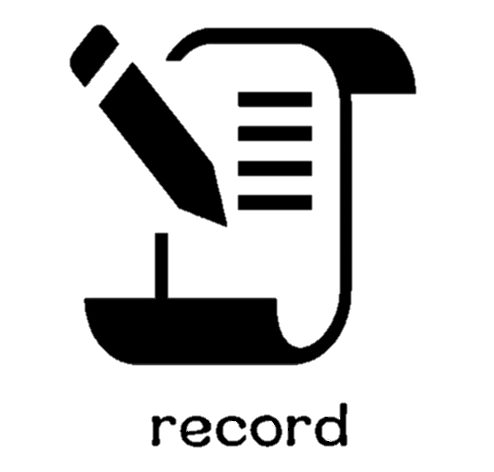
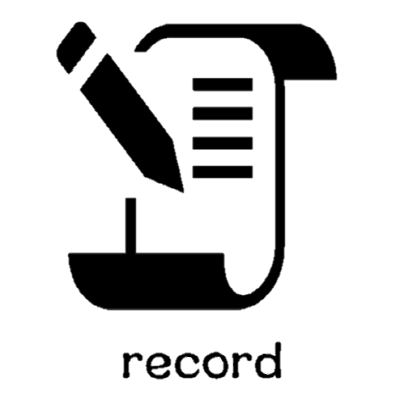
메인화면 이미지 추가

diff --git a/project/main.html b/project/main.html
@@ -3,23 +3,44 @@
 	<head>
 		<meta charset="UTF-8">
 		<title></title>
-		<meta name="viewport" content="initial-scale=1.0, width=device-width">
+		<meta id="viewport" name="viewport" content="width=device-width, height=device-height, initial-scale=1, minimum-scale=1, maximum-scale=1, user-scalable=no" />
 		<link rel="stylesheet" href="jquery.mobile/jquery.mobile-1.4.5.min.css"/>
 		<script src="jquery.mobile/jquery-1.11.1.min.js"></script>
 		<script src="jquery.mobile/jquery.mobile-1.4.5.min.js"></script>
 
 		<style type="text/css">
 			table {
-				margin-top: 10px;
-				margin-bottom: 10px;
 				margin-left: auto;
 				margin-right: auto;
+			}
+
+			img {
+				margin-left: 5%;
+				width: 85%;
+				height: 30%;
+				background-color: white;
+				border-radius: 10px;
+			}
+
+			#mainPage {
+				background-repeat: no-repeat;
+				background-size: cover;
+			}
+
+			body, html {
+				height: 100%;
+				overflow: hidden;
 			}
 
 		</style>
 
 		<script>
 			$(document).ready(function() {
+
+				$("#se").hide();
+				$("#dialog").dialog({
+					autoOpen : false, //자동으로 열리지않게
+				});
 
 				$("#game").on("click", function() {
 					location.href = "game.html";
@@ -28,35 +49,56 @@
 				$("#back").on("click", function() {
 					location.href = "index.html";
 				});
+				$("#setting").on("click", function() {
+					$("#se").toggle(10);
+				});
 			});
 		</script>
 	</head>
 	<body>
-		<div data-role="page" id="mainPage">
+		<div data-role="page" id="mainPage" style="background-image:url(image/two.png)">
 			<div  data-role="header" data-position="fixed">
 				<h1>메인 화면</h1>
 				<a id="back" data-icon="refresh" class="ui-btn-right" >logout</a>
 			</div>
-			<div data-role="content">
+			<div data-role="content" id="content">
 
-			</div>
-			<div data-role="footer" data-position="fixed">
-				<table>
+				<div id="se" hidefocus="true">
+
+					<label for="sc">볼륨</label>
+					<input type="range" name="sc" id="sc" value="50" min="0" max="100"/>
+
+					<br>
+
+					<label for="vi">진동</label>
+					<select name="vi" id="vi" data-role="slider">
+						<option value="on">on</option>
+						<option value="off">off</option>
+					</select>
+
+					<br>
+					<br>
+					<label for="sa">자동저장</label>
+					<select name="sa" id="sa" data-role="slider">
+						<option value="on">on</option>
+						<option value="off">off</option>
+					</select>
+				</div>
+
+				<table >
 					<tr>
-						<td>
-						<button>
-							<a href="game.html"><img id="game" width="120px" height="80px" src="image/game.png"></a>
-						</button>
-						<button>
-							<img id="record" width="120px" height="80px" src="image/record.png">
-						</button>
-						<button>
-							<img id="setting" width="120px" height="80px" src="image/setting.png">
-						</button></td>
+						<td><a href="game.html"><img id="game" src="image/game.png"></a></td>
+					</tr>
+					<tr>
+						<td><a><img id="record" src="image/record.png"></a></td>
+					</tr>
+					<tr>
+						<td><img id="setting" src="image/setting.png"></td>
 					</tr>
 
 				</table>
 			</div>
 		</div>
+
 	</body>
 </html>

diff --git a/project/index.html b/project/index.html
@@ -1,8 +1,8 @@
 <!DOCTYPE html>
 <head>
 	<meta charset="utf-8">
-	<meta name="viewport" content="width=device-width, initial-scale=1, shrink-to-fit=no">
-
+	<meta id="viewport" name="viewport" content="width=device-width, height=device-height, initial-scale=1, minimum-scale=1, maximum-scale=1, user-scalable=no" />
+	<link rel="stylesheet" href="jquery.mobile/jquery.mobile-1.4.5.min.css"/>
 	<link rel="stylesheet" href="http://code.jquery.com/ui/1.10.2/themes/smoothness/jquery-ui.css">
 	<script src="http://code.jquery.com/jquery-1.9.1.min.js"></script>
 	<script src="http://code.jquery.com/ui/1.10.2/jquery-ui.js"></script>
@@ -10,13 +10,15 @@
 
 	<style type="text/css">
 		table {
-			margin-top: 10px;
 			margin-left: auto;
 			margin-right: auto;
 		}
+		
+		label{
+			color: white;
+		}
 
 		.ef {
-			margin-top: 10px;
 			border-radius: 7px;
 			width: 155px;
 			height: 45px;
@@ -24,7 +26,6 @@
 		}
 
 		.efff {
-			margin-top: 10px;
 			border-radius: 7px;
 			width: 120px;
 			height: 45px;
@@ -39,14 +40,26 @@
 		}
 
 		img {
-			margin-top:10px;
+			margin-top: -5px;
 			border-radius: 10px;
 		}
 		
-		.te{
-			font-size:30px;
+		#im{
+			
+			margin-top: 10px;
+		}
+
+		.te {
+			font-size: 30px;
 			width: 230px;
 			height: 40px;
+		}
+		
+		body, html{
+			background-repeat: no-repeat;
+			background-size: cover;
+			height : 100%;
+			overflow: hidden;
 		}
 	</style>
 
@@ -90,13 +103,13 @@
 	</script>
 </head>
 
-<body bgcolor="#F6F6F6">
+<body background="image/bgim.gif">
 
 	<br>
-	<img width="550px" height="140px" style="margin-left: auto; margin-right: auto; display: block;" src="image/login.png">
+	<img width="400px" height="100px" style="margin-left: auto; margin-right: auto; display: block;" src="image/login.png">
 	<br>
 
-	<table>
+	<table style="margin-top: -15px;">
 		<tr>
 			<td><label for="ID" class="te">ID&nbsp;&nbsp;</label></td>
 			<td>
@@ -106,7 +119,7 @@
 		</tr>
 	</table>
 
-	<table>
+	<table style="margin-top: 10px;">
 		<tr>
 			<td><label for="PW" class="te">PW&nbsp;</label></td>
 			<td>
@@ -117,7 +130,7 @@
 
 	</table>
 
-	<table>
+	<table id="im">
 		<tr>
 			<td><img width="75px" height="75px" src="image\kakao.png"/></td>
 			<td><img width="75px" height="75px" src="image\naver.jpg"/></td>
@@ -126,7 +139,7 @@
 		</tr>
 	</table>
 
-	<table>
+	<table id="im">
 		<tr>
 			<td>
 			<input type="button" class="ef" id="login" value="로그인"/>

diff --git a/project/fire.html b/project/fire.html
@@ -2,38 +2,45 @@
 <html>
 	<head>
 		<meta charset="UTF-8">
-		<title></title>
-		<meta name="viewport" content="initial-scale=1.0, width=device-width">
+		<meta id="viewport" name="viewport" content="width=device-width, height=device-height, initial-scale=1, minimum-scale=1, maximum-scale=1, user-scalable=no" />
+		<script src="jquery.mobile/jquery-1.11.1.min.js"></script>
+		<script src="jquery.mobile/jquery.mobile-1.4.5.min.js"></script>
 
 	</head>
-	
+
 	<style>
-		
-		#te{
-			
-			
-			margin-top:2%;
-			margin-left:2%;
+		#te {
+			margin-top: 2%;
+			margin-left: 2%;
 			width: 95%;
-			height: 120px;
+			height: 70%;
 			border-color: white;
 			background-color: black;
 			color: white;
 			border-radius: 10px;
-			font-size: 30px;
-			
+			font-size: 20px;
 		}
-		
-		#im{
-			margin-top: 3%;
-			width: 55%;
-			
+
+		#im {
+			margin-top: 1%;
+			width: 65%;
+			height: 40%;
 		}
+
 	</style>
 
 	<body bgcolor="#000000">
-		<img id="im" style="margin-left: auto; margin-right: auto; display: block;" src="image/fire.jpg">
-		<textarea style="overflow-y: hidden" disabled="true" style="margin-left: auto; margin-right: auto; display: block;" id="te">  안녕하세요 당신은 화재 및 재난, 재해를 예방하고 대응하며 위급한 상황으로 부터 구조 구급활동을 통해 국민의 재산과 신체를 보호하는 것을 주임무로 하는 소방관입니다. &#10;여러분은 지금부터 소방관의 하루를 체험하게 됩니다. 
-		</textarea>
+		<div data-role="page">
+			<div data-role="header" data-position="fixed">
+
+			</div>
+			<div data-role="content" data-position="fixed">
+				<img id="im" style="margin-left: auto; margin-right: auto; display: block;" src="image/fire.jpg">
+				<textarea style="overflow-y: hidden" disabled="true" style="margin-left: auto; margin-right: auto; display: block;" id="te">  안녕하세요 당신은 화재 및 재난, 재해를 예방하고 대응하며 위급한 상황으로 부터 구조 구급활동을 통해 국민의 재산과 신체를 보호하는 것을 주임무로 하는 소방관입니다. &#10;여러분은 지금부터 소방관의 하루를 체험하게 됩니다. 상황에 맞는 선택지를 선택하여 재밌는 체험을 해보시길 바랍니다.</textarea>
+			</div>
+			<div data-role="footer" data-position="fixed">
+
+			</div>
+		</div>
 	</body>
 </html>

diff --git a/project/game.html b/project/game.html
@@ -2,8 +2,7 @@
 <html>
 	<head>
 		<meta charset="UTF-8">
-		<title></title>
-		<meta name="viewport" content="initial-scale=1.0, width=device-width">
+		<meta id="viewport" name="viewport" content="width=device-width, height=device-height, initial-scale=1, minimum-scale=1, maximum-scale=1, user-scalable=no" />
 		<link rel="stylesheet" href="http://code.jquery.com/ui/1.10.2/themes/smoothness/jquery-ui.css">
 		<script src="http://code.jquery.com/jquery-1.9.1.min.js"></script>
 		<script src="http://code.jquery.com/ui/1.10.2/jquery-ui.js"></script>
@@ -12,7 +11,7 @@
 			img {
 				margin-top: 30px;
 				border-radius: 100px;
-				margin-left: 85px;
+				margin-left: 25px;
 			}
 
 			table {
@@ -22,18 +21,19 @@
 			}
 
 			h1 {
-				margin-left: 85px;
+				text-align: center;
+				width: 100%;
 				color: #FFFFFF
 			}
 
 			button {
 
+				margin-left: 165px;
 				font-size: 25px;
 				font-weight: bold;
 				border-radius: 10px;
 				background-color: #FFFFFF;
 				margin-top: 100px;
-				margin-left: 280px;
 				width: 150px;
 				height: 80px;
 			}
@@ -135,11 +135,12 @@
 				<td><h1>체험 하고 싶은 직업을 선택하신 후 </h1></td>
 			</tr>
 			<tr>
-				<td><h1>&nbsp;&nbsp;&nbsp;&nbsp;&nbsp;&nbsp;&nbsp;&nbsp;&nbsp;Start 버튼을 눌러주세요</h1></td>
+				<td><h1>Start 버튼을 눌러주세요</h1></td>
 			</tr>
 			<tr>
 				<td><img id="cr" width="125px" height="125px" src="image/creator1.png"><img id="fi" width="125px" height="125px" src="image/fire1.png"><img id="po" width="125px" height="125px" src="image/police1.png"></td>
 			</tr>
+			<!-- image 캡쳐 크기 348 348-->
 
 			<tr>
 				<td>
